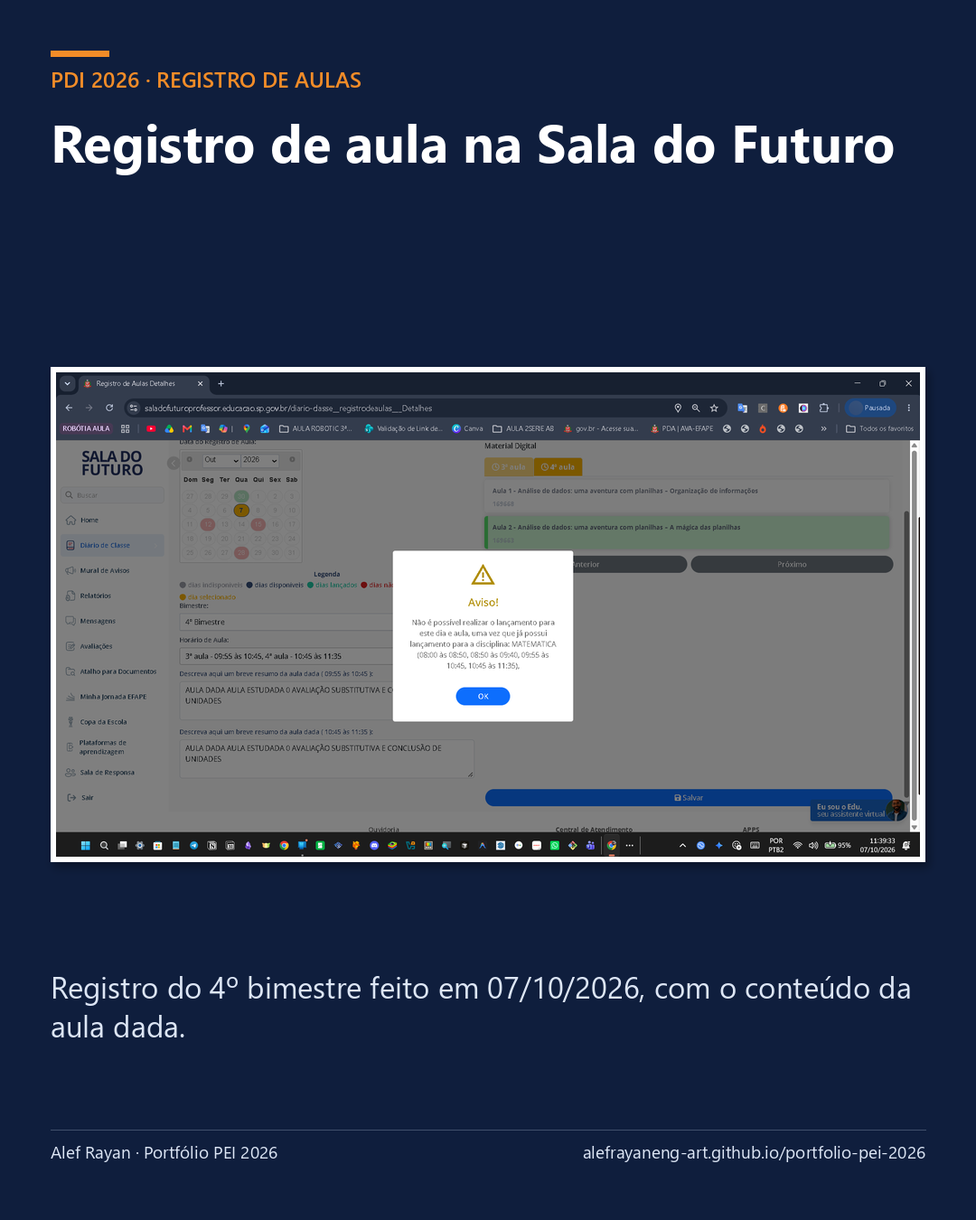
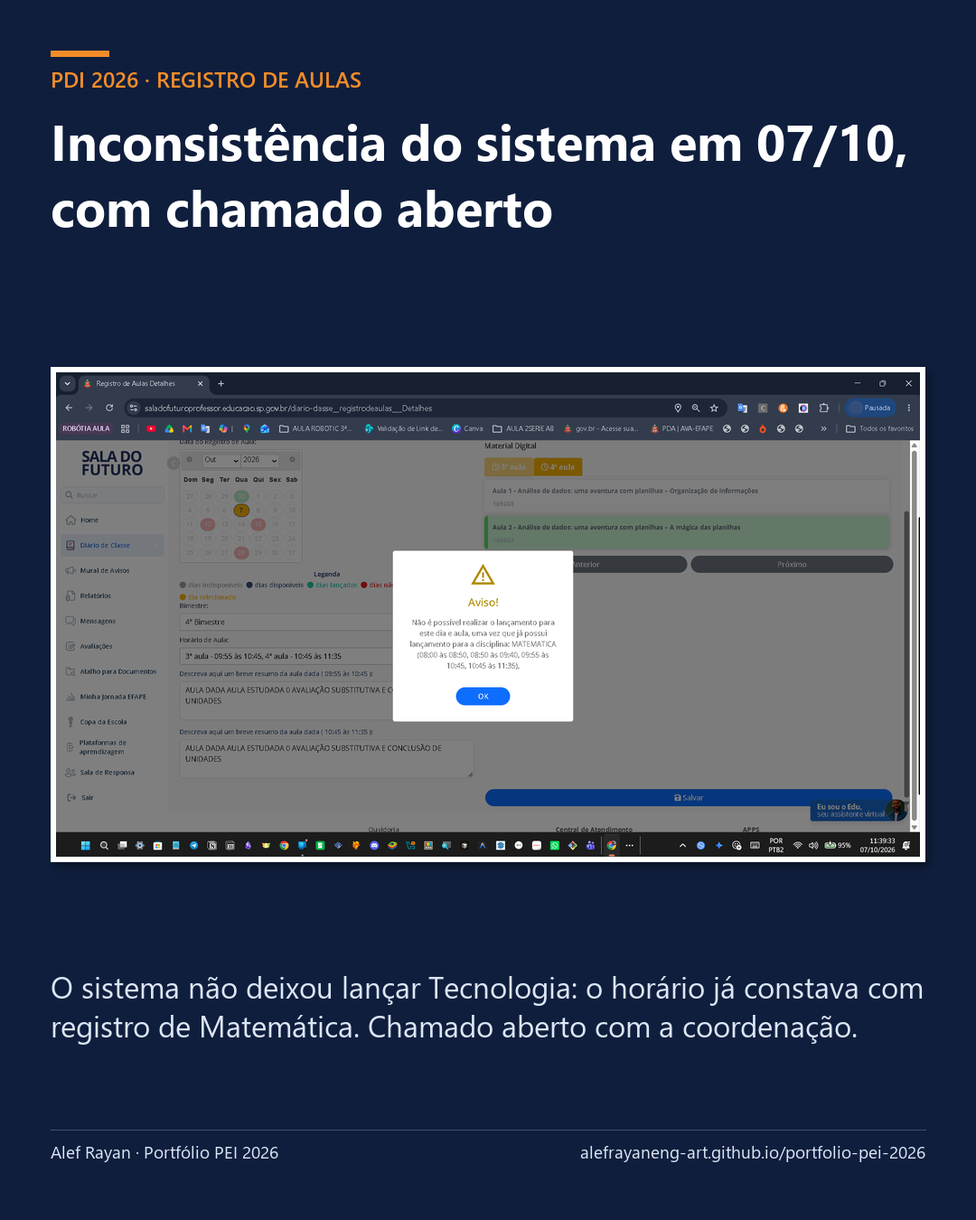
Corrige post de 07/10 (inconsistência do sistema) e troca o post de Gestão por dados automatizados para a busca ativa

diff --git a/indicadores.html b/indicadores.html
@@ -13,7 +13,7 @@
 <nav aria-label="Páginas"><ul><li><a href="index.html">Início</a></li><li><a href="indicadores.html" aria-current="page">Indicadores e deveres</a></li><li><a href="protagonismo-juvenil.html">Protagonismo juvenil</a></li><li><a href="pedagogia-da-presenca.html">Pedagogia da Presença</a></li><li><a href="educacao-interdimensional.html">Educação Interdimensional</a></li><li><a href="quatro-pilares.html">Quatro Pilares</a></li><li><a href="formacao-continuada.html">Formação continuada</a></li><li><a href="replicabilidade.html">Replicabilidade</a></li><li><a href="corresponsabilidade.html">Corresponsabilidade</a></li><li><a href="excelencia-em-gestao.html">Excelência em gestão</a></li><li><a href="praticas-pei.html">Práticas do PEI</a></li></ul></nav>
 </div></header>
 <main class="wrap">
-<h1>Evidências por indicador e por dever legal</h1><p class="lead">Cada afirmação traz a fonte entre parênteses. As evidências são as que já aparecem neste site; o que contém dado de estudante não foi publicado.</p><section class="def"><p class="def-t">Como ler esta página</p><p>Os indicadores do painel do professor e os deveres do docente do Programa Ensino Integral (PEI) estão ligados, um a um, aos cartões das outras páginas. Quando um registro vem de um período diferente do que a norma define, a página diz isso.</p></section><h2>Diário de Classe <span class="count">dever legal e prints</span></h2><div class="cards"><article class="card"><h3>Dever legal: frequência e conteúdo lançados diariamente</h3><p><strong>O que a norma diz:</strong> o professor deve lançar, diariamente, a frequência dos estudantes e registrar, diariamente, as informações sobre os conteúdos trabalhados nas aulas (Resolução SEDUC nº 32/2025, art. 6º, I e II). Para o indicador Diário de Classe, vale o registro completo, com a frequência do estudante e o conteúdo da aula (Comunicado COMOB/DMOB nº 40, de 27/07/2026, item 2). A orientação do portal para o perfil Professor é lançar até 5 dias corridos após a aula (Portal de Atendimento, SED-08284, desde 05/03/2025).</p></article><article class="card"><h3>Prints do Professor Presente e da Sala do Futuro</h3><p class="meta">agosto a novembro de 2026 · turmas visíveis nas capturas</p><p><strong>O que comprova:</strong> calendário de agosto em verde, a pendência de 04/09 vista às 10h32 e regularizada às 14h31, um registro de aula de 07/10 e o calendário de novembro em verde. Cada dia verde significa frequência e conteúdo registrados em todas as aulas do dia (legenda do calendário do sistema; Comunicado COMOB/DMOB nº 40, item 2).</p><p class="note">Os prints são de agosto a novembro de 2026, de prática posterior ao PDI de 14/08/2026. Não são a apuração do indicador, que tem período próprio na norma (Portaria Conjunta SUCOR-SUPED nº 01/2026, art. 9º).</p><div class="shots"><figure class="shot "><a class="zoom" href="#lb41" title="Clique para ampliar"><img src="assets/pdi/r1-agosto-verde.png" alt="Calendário do Professor Presente de agosto de 2026, com os dias de aula de 03 a 31/08 em verde" loading="lazy"></a><figcaption>Agosto</figcaption></figure><figure class="shot "><a class="zoom" href="#lb42" title="Clique para ampliar"><img src="assets/pdi/r2-04set-1032-amarelo.png" alt="Calendário de setembro de 2026 com 04/09 em amarelo às 10h32 e 01 a 03/09 em verde" loading="lazy"></a><figcaption>04/09, 10h32</figcaption></figure><figure class="shot "><a class="zoom" href="#lb43" title="Clique para ampliar"><img src="assets/pdi/r3-04set-1431-verde.png" alt="Calendário de setembro de 2026 com 04/09 em verde às 14h31" loading="lazy"></a><figcaption>04/09, 14h31</figcaption></figure><figure class="shot "><a class="zoom" href="#lb44" title="Clique para ampliar"><img src="assets/pdi/r6-registro-aula-07out.png" alt="Tela de Registro de Aulas da Sala do Futuro, 4º bimestre, 07/10/2026, com aviso do sistema sobre lançamento existente de Matemática" loading="lazy"></a><figcaption>Registro de aula, 07/10</figcaption></figure><figure class="shot "><a class="zoom" href="#lb45" title="Clique para ampliar"><img src="assets/pdi/r8-novembro-verde.png" alt="Calendário do Professor Presente de novembro de 2026, com os dias de 03 a 06, 09 a 13 e 16/11 em verde" loading="lazy"></a><figcaption>Novembro</figcaption></figure></div><p class="links"><a href="index.html#pdi">Ver a linha do tempo completa na página inicial</a></p><p class="reg">Capturas com CPF, nome e foto de perfil ocultados.</p></article></div><h2>Formação <span class="count">4 frentes</span></h2><p>O indicador Formação reúne o Planejamento de Aula 2026 (30%, semanas 1 a 18) e uma formação da lista da portaria, que inclui o Multiplica SP da 1ª edição de 2026 (Portaria Conjunta SUCOR-SUPED nº 01/2026, art. 10).</p><div class="cards"><article class="card"><h3>Multiplica SP, 1º semestre de 2026 (a formação que a norma nomeia)</h3><p class="meta">15/05/2026 · Tecnologia e Inovação, 6º ano A e B · turma 0072</p><p><strong>O que comprova:</strong> socialização “Palco dos Padrões” no Multiplica do 1º semestre. A norma nomeia essa edição, pautas 1 a 9, com a frequência e a socialização das aprendizagens como critérios (Portaria Conjunta SUCOR-SUPED nº 01/2026, art. 10, II, a). O Multiplica SP #Professores também é obrigatório no estágio probatório (Resolução SEDUC nº 115/2024, art. 11).</p><p class="links"><a href="formacao-continuada.html">Ver o cartão na página Formação continuada</a></p><p class="reg">Registro em texto; o painel tem fotos de estudantes e não foi publicado.</p></article><article class="card"><h3>Planejamento de Aula (30% do indicador)</h3><p class="meta">05/05/2026 · Matemática, 7º ano · AVA-EFAPE (PDA)</p><p><strong>O que comprova:</strong> plano de aula “Divisão de números racionais”, gerado no AVA-EFAPE. O Planejamento de Aula é apurado por semana, nas semanas 1 a 18 (Portaria Conjunta SUCOR-SUPED nº 01/2026, art. 10, I); um plano publicado não substitui essa apuração.</p><p class="links"><a href="formacao-continuada.html">Ver o plano e o PDF na página Formação continuada</a></p></article><article class="card"><h3>Multiplica 2026.2: “Atende plenamente” nos quatro critérios</h3><p class="meta">resultado visto em 09/11/2026 · Robótica, 3ª série A</p><p><strong>O que comprova:</strong> a rubrica de avaliação de documento marca “Resultado Final” em “Atende plenamente” em Contextualização e Identificação; Alinhamento Curricular e Intencionalidade; Conteúdos e Coerência da Narrativa; Resultados e Reflexão Crítica. A lista do art. 10 da portaria cita a 1ª edição; o 2º semestre entra como participação em programa de formação da Pasta (Resolução SEDUC nº 83/2025, art. 3º, II).</p><p class="links"><a href="formacao-continuada.html">Ver as capturas e o portfólio</a></p></article><article class="card"><h3>Curso de Ingressantes da EFAPE (obrigatório)</h3><p class="meta">outubro e novembro de 2026</p><p><strong>O que comprova:</strong> o curso é parte integrante e obrigatória do estágio probatório (Decreto nº 69.046/2024, art. 18). Módulo 4, atividade avaliativa: 10/10 (100%). Módulo 3, questões objetivas: 2/2 (100%). O curso segue em andamento, sem atestado de conclusão até 16/11/2026 (Resolução SEDUC nº 115/2024, art. 6º).</p><p class="links"><a href="formacao-continuada.html">Ver o cartão na página Formação continuada</a></p><p class="reg">Registro em texto; arquivo não publicado.</p></article></div><h2>Dimensões dos questionários <span class="count">6 de 11</span></h2><p>A Resolução SEDUC nº 83/2025 lista 11 dimensões para os questionários avaliativos (art. 2º, § 3º). Seis delas têm evidência direta neste site.</p><div class="cards"><article class="card"><h3>Dimensão 1: Domínio do Conhecimento e Conteúdo</h3><p class="meta">Definição da norma: “capacidade de dominar e contextualizar o conhecimento e conteúdo” (Resolução SEDUC nº 83/2025, art. 2º, § 3º)</p><p>Observação de aula pela gestão em 22/04/2026 (6º ano A), com devolutiva positiva que registra segurança ao explicar, e site público de revisão do SARESP para o 7º ano.</p><p class="links"><a href="pedagogia-da-presenca.html">Apoio presencial em sala de aula</a> · <a href="quatro-pilares.html">Site de revisão do SARESP</a></p></article><article class="card"><h3>Dimensão 2: Metodologia Dinâmica e Inovadora</h3><p class="meta">Definição da norma: “uso de métodos pedagógicos dinâmicos e inovadores” (Resolução SEDUC nº 83/2025, art. 2º, § 3º)</p><p>Eletiva de IA com bonecos 3D feitos a partir de desenhos dos estudantes, Robótica com prototipação em grupos, programação desplugada no Palco dos Padrões e trilha de 12 Kahoots.</p><p class="links"><a href="protagonismo-juvenil.html">Bonecos 3D</a> · <a href="quatro-pilares.html">Prototipação e Kahoots</a> · <a href="educacao-interdimensional.html">Palco dos Padrões</a></p></article><article class="card"><h3>Dimensão 7: Compromisso com a Aprendizagem</h3><p class="meta">Definição da norma: “dedicação ao processo de aprendizagem” (Resolução SEDUC nº 83/2025, art. 2º, § 3º)</p><p>Plano de recuperação e aprofundamento do 3º bimestre em Matemática (7º A), com Kahoot e Matific a cada semana; busca ativa de pendências na Alura; guias de aprendizagem do 4º bimestre; revisão para o SARESP.</p><p class="links"><a href="praticas-pei.html">Recuperação e guias</a> · <a href="corresponsabilidade.html">Busca ativa</a></p></article><article class="card"><h3>Dimensão 8: Qualidade das Aulas</h3><p class="meta">Definição da norma: “nível de qualidade das aulas ministradas” (Resolução SEDUC nº 83/2025, art. 2º, § 3º)</p><p>Observação de aula pela gestão com devolutiva positiva, plano de aula no AVA-EFAPE, material semanal da eletiva e portfólio do Multiplica 2026.2 com “Atende plenamente” nos quatro critérios.</p><p class="links"><a href="formacao-continuada.html">Formação continuada</a> · <a href="praticas-pei.html">Eletiva</a></p></article><article class="card"><h3>Dimensão 9: Apoio ao Desenvolvimento</h3><p class="meta">Definição da norma: “suporte ao desenvolvimento dos alunos” (Resolução SEDUC nº 83/2025, art. 2º, § 3º)</p><p>Tutoria de 16 estudantes em 4 grupos, com secretárias da frequência e articuladores; recuperação de aprendizagem; busca ativa; bonecos 3D.</p><p class="links"><a href="pedagogia-da-presenca.html">Tutoria</a> · <a href="praticas-pei.html">Recuperação</a></p></article><article class="card"><h3>Dimensão 11: Planejamento</h3><p class="meta">Definição da norma: “capacidade de planejar e organizar as atividades” (Resolução SEDUC nº 83/2025, art. 2º, § 3º)</p><p>Vinte planos e guias do 4º bimestre, painel do macrociclo do bimestre e plano de aula registrado no AVA-EFAPE.</p><p class="links"><a href="replicabilidade.html">Planos e guias</a> · <a href="excelencia-em-gestao.html">Macrociclo</a></p></article></div><h2>Apoio presencial em sala de aula</h2><div class="cards"><article class="card"><h3>Observação de aula e devolutiva da gestão</h3><p class="meta">22/04/2026 · Tecnologia e Inovação, 6º ano A</p><p><strong>O que a norma diz:</strong> o acompanhamento prevê o apoio presencial em sala de aula (Resolução SEDUC nº 83/2025, art. 6º, § 1º, 1, a). Para o professor ingressante, a gestão assiste à aula ao menos uma vez ao mês e registra devolutiva formativa (Resolução SEDUC nº 115/2024, art. 11, § 2º).</p><p><strong>O que comprova:</strong> o registro de 22/04/2026, com a observação de uma aula e a devolutiva da gestão, com pontos fortes e pontos de atenção.</p><p class="links"><a href="pedagogia-da-presenca.html">Ver o cartão na página Pedagogia da Presença</a></p><p class="reg">Registro em texto; arquivo não publicado, porque o formulário traz o nome da gestora.</p></article></div><h2>Deveres do docente PEI em RDE <span class="count">LC 1.374/2022, art. 47</span></h2><p>Os docentes do Programa Ensino Integral ficam submetidos ao Regime de Dedicação Exclusiva (RDE) (Lei Complementar nº 1.374/2022, art. 47). Cada dever abaixo aponta para os cartões que o documentam.</p><div class="cards"><article class="card"><h3>Tutoria</h3><p>Atuo como tutor de um grupo de 16 estudantes, organizado em quatro grupos com secretárias da frequência e articuladores, o que corresponde à atribuição de atuar em atividades de tutoria aos estudantes (Resolução SEDUC nº 61/2024, art. 2º, III; Lei Complementar nº 1.374/2022, art. 47, § 1º, 1).</p><p class="links"><a href="pedagogia-da-presenca.html">Tutoria 2026</a></p></article><article class="card"><h3>Eletiva e Parte Diversificada</h3><p>A eletiva “Meu Mundo com IA”, com ementa, sete semanas de material e lapbooks, a Robótica e as práticas experimentais compõem a Parte Diversificada da jornada do docente em dedicação exclusiva (Resolução SEDUC nº 159/2025, art. 10, § 1º, 2).</p><p class="links"><a href="praticas-pei.html">Eletiva e práticas experimentais</a> · <a href="educacao-interdimensional.html">Lapbooks</a></p></article><article class="card"><h3>Protagonismo juvenil</h3><p>Os bonecos 3D impressos a partir de desenhos dos próprios estudantes e a coavaliação na Robótica mostram o protagonismo juvenil em prática: a ideia é do estudante e a tecnologia é meio (Resolução SEDUC nº 61/2024, art. 2º, V).</p><p class="links"><a href="protagonismo-juvenil.html">Protagonismo juvenil</a></p></article><article class="card"><h3>Guias de Aprendizagem</h3><p>Os guias de aprendizagem do 4º bimestre organizam o estudo do estudante e levam o modelo pedagógico do Ensino Integral para a aula (Resolução SEDUC nº 61/2024, art. 4º, VIII, b).</p><p class="links"><a href="praticas-pei.html">Guias do 4º bimestre</a></p></article><article class="card"><h3>Recuperação de aprendizagem</h3><p>O plano de recuperação e aprofundamento do 3º bimestre de Matemática do 7º A, com Kahoot e Matific a cada semana, registra a recuperação prevista para os estudantes de menor rendimento (Lei de Diretrizes e Bases, art. 12, V; Resolução SEDUC nº 42/2024, arts. 1º a 9º).</p><p class="links"><a href="praticas-pei.html">Recuperação e aprofundamento</a></p></article><article class="card"><h3>Sistematizar e documentar práticas para replicar</h3><p>O guia ilustrado do desenho ao boneco 3D e os planos e guias do 4º bimestre foram escritos para que outro professor possa repetir a prática (Resolução SEDUC nº 61/2024, art. 2º, VI).</p><p class="links"><a href="replicabilidade.html">Replicabilidade</a></p></article><article class="card"><h3>Formações e orientações técnico-pedagógicas</h3><p>Participei do Multiplica SP #Professores nos dois semestres de 2026 e socializei a prática de Robótica em portfólio, formação obrigatória no estágio probatório (Resolução SEDUC nº 61/2024, art. 2º, IV; Resolução SEDUC nº 115/2024, art. 11; Portaria EFAPE nº 03/2026, art. 1º, parágrafo único).</p><p class="links"><a href="formacao-continuada.html">Formação continuada</a></p></article></div><h2>Este portfólio e o PDI</h2><div class="cards"><article class="card"><h3>O Padlet e este site como ação do PDI</h3><p class="meta">14/08/2026 em diante</p><p><strong>O que comprova:</strong> o PDI de 14/08/2026 previu a elaboração de um Padlet de evidências; o Padlet e este site são essa ação em andamento. A norma prevê o PDI como ferramenta central das atividades de aprimoramento das práticas pedagógicas (Resolução SEDUC nº 83/2025, art. 6º, § 1º, 3) e o acompanhamento com base em registros e evidências (art. 7º, § 1º, 1).</p><p class="links"><a href="index.html#pdi">Ver o registro do PDI na página inicial</a></p></article></div>
+<h1>Evidências por indicador e por dever legal</h1><p class="lead">Cada afirmação traz a fonte entre parênteses. As evidências são as que já aparecem neste site; o que contém dado de estudante não foi publicado.</p><section class="def"><p class="def-t">Como ler esta página</p><p>Os indicadores do painel do professor e os deveres do docente do Programa Ensino Integral (PEI) estão ligados, um a um, aos cartões das outras páginas. Quando um registro vem de um período diferente do que a norma define, a página diz isso.</p></section><h2>Diário de Classe <span class="count">dever legal e prints</span></h2><div class="cards"><article class="card"><h3>Dever legal: frequência e conteúdo lançados diariamente</h3><p><strong>O que a norma diz:</strong> o professor deve lançar, diariamente, a frequência dos estudantes e registrar, diariamente, as informações sobre os conteúdos trabalhados nas aulas (Resolução SEDUC nº 32/2025, art. 6º, I e II). Para o indicador Diário de Classe, vale o registro completo, com a frequência do estudante e o conteúdo da aula (Comunicado COMOB/DMOB nº 40, de 27/07/2026, item 2). A orientação do portal para o perfil Professor é lançar até 5 dias corridos após a aula (Portal de Atendimento, SED-08284, desde 05/03/2025).</p></article><article class="card"><h3>Prints do Professor Presente e da Sala do Futuro</h3><p class="meta">agosto a novembro de 2026 · turmas visíveis nas capturas</p><p><strong>O que comprova:</strong> calendário de agosto em verde, a pendência de 04/09 vista às 10h32 e regularizada às 14h31, o aviso do sistema que impediu o lançamento da aula de Tecnologia em 07/10 (chamado aberto com a coordenação) e o calendário de novembro em verde. Cada dia verde significa frequência e conteúdo registrados em todas as aulas do dia (legenda do calendário do sistema; Comunicado COMOB/DMOB nº 40, item 2).</p><p class="note">Os prints são de agosto a novembro de 2026, de prática posterior ao PDI de 14/08/2026. Não são a apuração do indicador, que tem período próprio na norma (Portaria Conjunta SUCOR-SUPED nº 01/2026, art. 9º).</p><div class="shots"><figure class="shot "><a class="zoom" href="#lb41" title="Clique para ampliar"><img src="assets/pdi/r1-agosto-verde.png" alt="Calendário do Professor Presente de agosto de 2026, com os dias de aula de 03 a 31/08 em verde" loading="lazy"></a><figcaption>Agosto</figcaption></figure><figure class="shot "><a class="zoom" href="#lb42" title="Clique para ampliar"><img src="assets/pdi/r2-04set-1032-amarelo.png" alt="Calendário de setembro de 2026 com 04/09 em amarelo às 10h32 e 01 a 03/09 em verde" loading="lazy"></a><figcaption>04/09, 10h32</figcaption></figure><figure class="shot "><a class="zoom" href="#lb43" title="Clique para ampliar"><img src="assets/pdi/r3-04set-1431-verde.png" alt="Calendário de setembro de 2026 com 04/09 em verde às 14h31" loading="lazy"></a><figcaption>04/09, 14h31</figcaption></figure><figure class="shot "><a class="zoom" href="#lb44" title="Clique para ampliar"><img src="assets/pdi/r6-registro-aula-07out.png" alt="Tela de Registro de Aulas da Sala do Futuro, 4º bimestre, 07/10/2026, com aviso do sistema sobre lançamento existente de Matemática" loading="lazy"></a><figcaption>Aviso do sistema, 07/10</figcaption></figure><figure class="shot "><a class="zoom" href="#lb45" title="Clique para ampliar"><img src="assets/pdi/r8-novembro-verde.png" alt="Calendário do Professor Presente de novembro de 2026, com os dias de 03 a 06, 09 a 13 e 16/11 em verde" loading="lazy"></a><figcaption>Novembro</figcaption></figure></div><p class="links"><a href="index.html#pdi">Ver a linha do tempo completa na página inicial</a></p><p class="reg">Capturas com CPF, nome e foto de perfil ocultados.</p></article></div><h2>Formação <span class="count">4 frentes</span></h2><p>O indicador Formação reúne o Planejamento de Aula 2026 (30%, semanas 1 a 18) e uma formação da lista da portaria, que inclui o Multiplica SP da 1ª edição de 2026 (Portaria Conjunta SUCOR-SUPED nº 01/2026, art. 10).</p><div class="cards"><article class="card"><h3>Multiplica SP, 1º semestre de 2026 (a formação que a norma nomeia)</h3><p class="meta">15/05/2026 · Tecnologia e Inovação, 6º ano A e B · turma 0072</p><p><strong>O que comprova:</strong> socialização “Palco dos Padrões” no Multiplica do 1º semestre. A norma nomeia essa edição, pautas 1 a 9, com a frequência e a socialização das aprendizagens como critérios (Portaria Conjunta SUCOR-SUPED nº 01/2026, art. 10, II, a). O Multiplica SP #Professores também é obrigatório no estágio probatório (Resolução SEDUC nº 115/2024, art. 11).</p><p class="links"><a href="formacao-continuada.html">Ver o cartão na página Formação continuada</a></p><p class="reg">Registro em texto; o painel tem fotos de estudantes e não foi publicado.</p></article><article class="card"><h3>Planejamento de Aula (30% do indicador)</h3><p class="meta">05/05/2026 · Matemática, 7º ano · AVA-EFAPE (PDA)</p><p><strong>O que comprova:</strong> plano de aula “Divisão de números racionais”, gerado no AVA-EFAPE. O Planejamento de Aula é apurado por semana, nas semanas 1 a 18 (Portaria Conjunta SUCOR-SUPED nº 01/2026, art. 10, I); um plano publicado não substitui essa apuração.</p><p class="links"><a href="formacao-continuada.html">Ver o plano e o PDF na página Formação continuada</a></p></article><article class="card"><h3>Multiplica 2026.2: “Atende plenamente” nos quatro critérios</h3><p class="meta">resultado visto em 09/11/2026 · Robótica, 3ª série A</p><p><strong>O que comprova:</strong> a rubrica de avaliação de documento marca “Resultado Final” em “Atende plenamente” em Contextualização e Identificação; Alinhamento Curricular e Intencionalidade; Conteúdos e Coerência da Narrativa; Resultados e Reflexão Crítica. A lista do art. 10 da portaria cita a 1ª edição; o 2º semestre entra como participação em programa de formação da Pasta (Resolução SEDUC nº 83/2025, art. 3º, II).</p><p class="links"><a href="formacao-continuada.html">Ver as capturas e o portfólio</a></p></article><article class="card"><h3>Curso de Ingressantes da EFAPE (obrigatório)</h3><p class="meta">outubro e novembro de 2026</p><p><strong>O que comprova:</strong> o curso é parte integrante e obrigatória do estágio probatório (Decreto nº 69.046/2024, art. 18). Módulo 4, atividade avaliativa: 10/10 (100%). Módulo 3, questões objetivas: 2/2 (100%). O curso segue em andamento, sem atestado de conclusão até 16/11/2026 (Resolução SEDUC nº 115/2024, art. 6º).</p><p class="links"><a href="formacao-continuada.html">Ver o cartão na página Formação continuada</a></p><p class="reg">Registro em texto; arquivo não publicado.</p></article></div><h2>Dimensões dos questionários <span class="count">6 de 11</span></h2><p>A Resolução SEDUC nº 83/2025 lista 11 dimensões para os questionários avaliativos (art. 2º, § 3º). Seis delas têm evidência direta neste site.</p><div class="cards"><article class="card"><h3>Dimensão 1: Domínio do Conhecimento e Conteúdo</h3><p class="meta">Definição da norma: “capacidade de dominar e contextualizar o conhecimento e conteúdo” (Resolução SEDUC nº 83/2025, art. 2º, § 3º)</p><p>Observação de aula pela gestão em 22/04/2026 (6º ano A), com devolutiva positiva que registra segurança ao explicar, e site público de revisão do SARESP para o 7º ano.</p><p class="links"><a href="pedagogia-da-presenca.html">Apoio presencial em sala de aula</a> · <a href="quatro-pilares.html">Site de revisão do SARESP</a></p></article><article class="card"><h3>Dimensão 2: Metodologia Dinâmica e Inovadora</h3><p class="meta">Definição da norma: “uso de métodos pedagógicos dinâmicos e inovadores” (Resolução SEDUC nº 83/2025, art. 2º, § 3º)</p><p>Eletiva de IA com bonecos 3D feitos a partir de desenhos dos estudantes, Robótica com prototipação em grupos, programação desplugada no Palco dos Padrões e trilha de 12 Kahoots.</p><p class="links"><a href="protagonismo-juvenil.html">Bonecos 3D</a> · <a href="quatro-pilares.html">Prototipação e Kahoots</a> · <a href="educacao-interdimensional.html">Palco dos Padrões</a></p></article><article class="card"><h3>Dimensão 7: Compromisso com a Aprendizagem</h3><p class="meta">Definição da norma: “dedicação ao processo de aprendizagem” (Resolução SEDUC nº 83/2025, art. 2º, § 3º)</p><p>Plano de recuperação e aprofundamento do 3º bimestre em Matemática (7º A), com Kahoot e Matific a cada semana; busca ativa de pendências na Alura; guias de aprendizagem do 4º bimestre; revisão para o SARESP.</p><p class="links"><a href="praticas-pei.html">Recuperação e guias</a> · <a href="corresponsabilidade.html">Busca ativa</a></p></article><article class="card"><h3>Dimensão 8: Qualidade das Aulas</h3><p class="meta">Definição da norma: “nível de qualidade das aulas ministradas” (Resolução SEDUC nº 83/2025, art. 2º, § 3º)</p><p>Observação de aula pela gestão com devolutiva positiva, plano de aula no AVA-EFAPE, material semanal da eletiva e portfólio do Multiplica 2026.2 com “Atende plenamente” nos quatro critérios.</p><p class="links"><a href="formacao-continuada.html">Formação continuada</a> · <a href="praticas-pei.html">Eletiva</a></p></article><article class="card"><h3>Dimensão 9: Apoio ao Desenvolvimento</h3><p class="meta">Definição da norma: “suporte ao desenvolvimento dos alunos” (Resolução SEDUC nº 83/2025, art. 2º, § 3º)</p><p>Tutoria de 16 estudantes em 4 grupos, com secretárias da frequência e articuladores; recuperação de aprendizagem; busca ativa; bonecos 3D.</p><p class="links"><a href="pedagogia-da-presenca.html">Tutoria</a> · <a href="praticas-pei.html">Recuperação</a></p></article><article class="card"><h3>Dimensão 11: Planejamento</h3><p class="meta">Definição da norma: “capacidade de planejar e organizar as atividades” (Resolução SEDUC nº 83/2025, art. 2º, § 3º)</p><p>Vinte planos e guias do 4º bimestre, painel do macrociclo do bimestre e plano de aula registrado no AVA-EFAPE.</p><p class="links"><a href="replicabilidade.html">Planos e guias</a> · <a href="excelencia-em-gestao.html">Macrociclo</a></p></article></div><h2>Apoio presencial em sala de aula</h2><div class="cards"><article class="card"><h3>Observação de aula e devolutiva da gestão</h3><p class="meta">22/04/2026 · Tecnologia e Inovação, 6º ano A</p><p><strong>O que a norma diz:</strong> o acompanhamento prevê o apoio presencial em sala de aula (Resolução SEDUC nº 83/2025, art. 6º, § 1º, 1, a). Para o professor ingressante, a gestão assiste à aula ao menos uma vez ao mês e registra devolutiva formativa (Resolução SEDUC nº 115/2024, art. 11, § 2º).</p><p><strong>O que comprova:</strong> o registro de 22/04/2026, com a observação de uma aula e a devolutiva da gestão, com pontos fortes e pontos de atenção.</p><p class="links"><a href="pedagogia-da-presenca.html">Ver o cartão na página Pedagogia da Presença</a></p><p class="reg">Registro em texto; arquivo não publicado, porque o formulário traz o nome da gestora.</p></article></div><h2>Deveres do docente PEI em RDE <span class="count">LC 1.374/2022, art. 47</span></h2><p>Os docentes do Programa Ensino Integral ficam submetidos ao Regime de Dedicação Exclusiva (RDE) (Lei Complementar nº 1.374/2022, art. 47). Cada dever abaixo aponta para os cartões que o documentam.</p><div class="cards"><article class="card"><h3>Tutoria</h3><p>Atuo como tutor de um grupo de 16 estudantes, organizado em quatro grupos com secretárias da frequência e articuladores, o que corresponde à atribuição de atuar em atividades de tutoria aos estudantes (Resolução SEDUC nº 61/2024, art. 2º, III; Lei Complementar nº 1.374/2022, art. 47, § 1º, 1).</p><p class="links"><a href="pedagogia-da-presenca.html">Tutoria 2026</a></p></article><article class="card"><h3>Eletiva e Parte Diversificada</h3><p>A eletiva “Meu Mundo com IA”, com ementa, sete semanas de material e lapbooks, a Robótica e as práticas experimentais compõem a Parte Diversificada da jornada do docente em dedicação exclusiva (Resolução SEDUC nº 159/2025, art. 10, § 1º, 2).</p><p class="links"><a href="praticas-pei.html">Eletiva e práticas experimentais</a> · <a href="educacao-interdimensional.html">Lapbooks</a></p></article><article class="card"><h3>Protagonismo juvenil</h3><p>Os bonecos 3D impressos a partir de desenhos dos próprios estudantes e a coavaliação na Robótica mostram o protagonismo juvenil em prática: a ideia é do estudante e a tecnologia é meio (Resolução SEDUC nº 61/2024, art. 2º, V).</p><p class="links"><a href="protagonismo-juvenil.html">Protagonismo juvenil</a></p></article><article class="card"><h3>Guias de Aprendizagem</h3><p>Os guias de aprendizagem do 4º bimestre organizam o estudo do estudante e levam o modelo pedagógico do Ensino Integral para a aula (Resolução SEDUC nº 61/2024, art. 4º, VIII, b).</p><p class="links"><a href="praticas-pei.html">Guias do 4º bimestre</a></p></article><article class="card"><h3>Recuperação de aprendizagem</h3><p>O plano de recuperação e aprofundamento do 3º bimestre de Matemática do 7º A, com Kahoot e Matific a cada semana, registra a recuperação prevista para os estudantes de menor rendimento (Lei de Diretrizes e Bases, art. 12, V; Resolução SEDUC nº 42/2024, arts. 1º a 9º).</p><p class="links"><a href="praticas-pei.html">Recuperação e aprofundamento</a></p></article><article class="card"><h3>Sistematizar e documentar práticas para replicar</h3><p>O guia ilustrado do desenho ao boneco 3D e os planos e guias do 4º bimestre foram escritos para que outro professor possa repetir a prática (Resolução SEDUC nº 61/2024, art. 2º, VI).</p><p class="links"><a href="replicabilidade.html">Replicabilidade</a></p></article><article class="card"><h3>Formações e orientações técnico-pedagógicas</h3><p>Participei do Multiplica SP #Professores nos dois semestres de 2026 e socializei a prática de Robótica em portfólio, formação obrigatória no estágio probatório (Resolução SEDUC nº 61/2024, art. 2º, IV; Resolução SEDUC nº 115/2024, art. 11; Portaria EFAPE nº 03/2026, art. 1º, parágrafo único).</p><p class="links"><a href="formacao-continuada.html">Formação continuada</a></p></article></div><h2>Este portfólio e o PDI</h2><div class="cards"><article class="card"><h3>O Padlet e este site como ação do PDI</h3><p class="meta">14/08/2026 em diante</p><p><strong>O que comprova:</strong> o PDI de 14/08/2026 previu a elaboração de um Padlet de evidências; o Padlet e este site são essa ação em andamento. A norma prevê o PDI como ferramenta central das atividades de aprimoramento das práticas pedagógicas (Resolução SEDUC nº 83/2025, art. 6º, § 1º, 3) e o acompanhamento com base em registros e evidências (art. 7º, § 1º, 1).</p><p class="links"><a href="index.html#pdi">Ver o registro do PDI na página inicial</a></p></article></div>
 </main>
 
 <footer><div class="wrap">

diff --git a/index.html b/index.html
@@ -18,7 +18,7 @@
 <p>Este site reúne registros do trabalho de 2026, organizados pelos princípios, premissas e práticas do PEI. Cada página começa pela definição e traz cartões com data, turma e o que o arquivo comprova. O texto descreve só o que os arquivos mostram.</p></section>
 <section class="destaque" id="pdi"><h2>PDI 2026: registro do Diário de Classe e acompanhamento no Professor Presente</h2>
 <p>O PDI de 14/08/2026 priorizou o indicador Diário de Classe e previu um Padlet de evidências. Abaixo, em ordem de data, as capturas do Professor Presente (SED) e da Sala do Futuro, com CPF, nome e foto de perfil ocultados. Verde significa frequência e conteúdo registrados em todas as aulas do dia. Amarelo significa que faltou registro em alguma aula do dia, segundo a legenda do sistema.</p>
-<ol class="timeline"><li class="tl"><div class="tl-when">04/09/2026, 10:32</div><div class="tl-body"><h3>Agosto de 2026</h3><p>Calendário do Professor Presente: os dias de aula de 03 a 31/08 aparecem em verde: frequência e conteúdo registrados em todas as aulas do dia (legenda do sistema: “presença em todas as aulas do professor no dia”).</p><figure class="shot "><a class="zoom" href="#lb23" title="Clique para ampliar"><img src="assets/pdi/r1-agosto-verde.png" alt="Calendário do Professor Presente de agosto de 2026, com os dias de aula de 03 a 31/08 em verde" loading="lazy"></a></figure></div></li><li class="tl"><div class="tl-when">04/09/2026, 10:32</div><div class="tl-body"><h3>04/09: dia em amarelo</h3><p>04/09 aparece em amarelo (“falta aula”: falta registro de frequência e conteúdo em alguma aula do dia). Os dias 01 a 03/09 estão em verde.</p><figure class="shot "><a class="zoom" href="#lb24" title="Clique para ampliar"><img src="assets/pdi/r2-04set-1032-amarelo.png" alt="Calendário de setembro de 2026 com 04/09 em amarelo às 10h32 e 01 a 03/09 em verde" loading="lazy"></a></figure></div></li><li class="tl"><div class="tl-when">04/09/2026, 14:31</div><div class="tl-body"><h3>04/09: o mesmo dia em verde</h3><p>Quatro horas depois, 04/09 aparece em verde. O professor acompanha o painel e regulariza o registro no mesmo dia.</p><figure class="shot "><a class="zoom" href="#lb25" title="Clique para ampliar"><img src="assets/pdi/r3-04set-1431-verde.png" alt="Calendário de setembro de 2026 com 04/09 em verde às 14h31" loading="lazy"></a></figure></div></li><li class="tl"><div class="tl-when">09/09/2026, 15:07</div><div class="tl-body"><h3>Setembro de 2026</h3><p>Calendário com 01 a 04/09 e 08 a 09/09 em verde: frequência e conteúdo registrados em todas as aulas desses dias.</p><figure class="shot "><a class="zoom" href="#lb26" title="Clique para ampliar"><img src="assets/pdi/r4-setembro.png" alt="Calendário do Professor Presente com 01 a 04/09 e 08 e 09/09 em verde" loading="lazy"></a></figure></div></li><li class="tl"><div class="tl-when">07/10/2026, 11:39</div><div class="tl-body"><h3>Registro de aula em 07/10</h3><p>Tela de Registro de Aulas (Sala do Futuro), 4º bimestre. O sistema avisa que já existe lançamento da disciplina Matemática para o dia e os horários consultados, e o campo de resumo da aula está preenchido.</p><figure class="shot "><a class="zoom" href="#lb27" title="Clique para ampliar"><img src="assets/pdi/r6-registro-aula-07out.png" alt="Tela de Registro de Aulas da Sala do Futuro, 4º bimestre, 07/10/2026, com aviso do sistema sobre lançamento existente de Matemática" loading="lazy"></a></figure></div></li><li class="tl"><div class="tl-when">09/10/2026, 10:36</div><div class="tl-body"><h3>Detalhe do dia 07/10</h3><p>Quadro do dia 07/10 por turma, disciplina e horário. Com frequência e conteúdo registrados (verde): 7º A Matemática (08:00 a 09:40) e 6º A Tecnologia (12:40 a 14:20). As duas aulas do 6º B Tecnologia (09:55 a 11:35) aparecem sem registro na data desta captura.</p><figure class="shot "><a class="zoom" href="#lb28" title="Clique para ampliar"><img src="assets/pdi/r7-detalhe-dia-07out.png" alt="Quadro Registro de Presença em Aula do dia 07/10/2026, com aulas do 7º A, 6º A e 6º B por horário" loading="lazy"></a></figure></div></li><li class="tl"><div class="tl-when">16/11/2026, 14:39</div><div class="tl-body"><h3>Novembro de 2026</h3><p>Calendário de novembro: 03 a 06, 09 a 13 e 16/11 em verde, com frequência e conteúdo registrados em todas as aulas desses dias.</p><figure class="shot "><a class="zoom" href="#lb29" title="Clique para ampliar"><img src="assets/pdi/r8-novembro-verde.png" alt="Calendário do Professor Presente de novembro de 2026, com os dias de 03 a 06, 09 a 13 e 16/11 em verde" loading="lazy"></a></figure></div></li></ol>
+<ol class="timeline"><li class="tl"><div class="tl-when">04/09/2026, 10:32</div><div class="tl-body"><h3>Agosto de 2026</h3><p>Calendário do Professor Presente: os dias de aula de 03 a 31/08 aparecem em verde: frequência e conteúdo registrados em todas as aulas do dia (legenda do sistema: “presença em todas as aulas do professor no dia”).</p><figure class="shot "><a class="zoom" href="#lb23" title="Clique para ampliar"><img src="assets/pdi/r1-agosto-verde.png" alt="Calendário do Professor Presente de agosto de 2026, com os dias de aula de 03 a 31/08 em verde" loading="lazy"></a></figure></div></li><li class="tl"><div class="tl-when">04/09/2026, 10:32</div><div class="tl-body"><h3>04/09: dia em amarelo</h3><p>04/09 aparece em amarelo (“falta aula”: falta registro de frequência e conteúdo em alguma aula do dia). Os dias 01 a 03/09 estão em verde.</p><figure class="shot "><a class="zoom" href="#lb24" title="Clique para ampliar"><img src="assets/pdi/r2-04set-1032-amarelo.png" alt="Calendário de setembro de 2026 com 04/09 em amarelo às 10h32 e 01 a 03/09 em verde" loading="lazy"></a></figure></div></li><li class="tl"><div class="tl-when">04/09/2026, 14:31</div><div class="tl-body"><h3>04/09: o mesmo dia em verde</h3><p>Quatro horas depois, 04/09 aparece em verde. O professor acompanha o painel e regulariza o registro no mesmo dia.</p><figure class="shot "><a class="zoom" href="#lb25" title="Clique para ampliar"><img src="assets/pdi/r3-04set-1431-verde.png" alt="Calendário de setembro de 2026 com 04/09 em verde às 14h31" loading="lazy"></a></figure></div></li><li class="tl"><div class="tl-when">09/09/2026, 15:07</div><div class="tl-body"><h3>Setembro de 2026</h3><p>Calendário com 01 a 04/09 e 08 a 09/09 em verde: frequência e conteúdo registrados em todas as aulas desses dias.</p><figure class="shot "><a class="zoom" href="#lb26" title="Clique para ampliar"><img src="assets/pdi/r4-setembro.png" alt="Calendário do Professor Presente com 01 a 04/09 e 08 e 09/09 em verde" loading="lazy"></a></figure></div></li><li class="tl"><div class="tl-when">07/10/2026, 11:39</div><div class="tl-body"><h3>07/10: o sistema impediu o lançamento da aula de Tecnologia</h3><p>Tela de Registro de Aulas (Sala do Futuro), 4º bimestre. O sistema avisa que já existe lançamento de Matemática no horário em que se tentava lançar a aula de Tecnologia. O horário de cada professor é fixo e não há como lançar em horário de outro, então a aula não pôde ser concluída naquele momento. A captura registra a inconsistência; com a coordenação, foi aberto um chamado, que resguarda o registro.</p><figure class="shot "><a class="zoom" href="#lb27" title="Clique para ampliar"><img src="assets/pdi/r6-registro-aula-07out.png" alt="Tela de Registro de Aulas da Sala do Futuro, 4º bimestre, 07/10/2026, com aviso do sistema sobre lançamento existente de Matemática no horário de Tecnologia" loading="lazy"></a></figure></div></li><li class="tl"><div class="tl-when">09/10/2026, 10:36</div><div class="tl-body"><h3>Detalhe do dia 07/10</h3><p>Quadro do dia 07/10 por turma, disciplina e horário. Com frequência e conteúdo registrados (verde): 7º A Matemática (08:00 a 09:40) e 6º A Tecnologia (12:40 a 14:20). As duas aulas do 6º B Tecnologia (09:55 a 11:35) aparecem sem registro na data desta captura, por causa do impedimento do sistema descrito no item de 07/10.</p><figure class="shot "><a class="zoom" href="#lb28" title="Clique para ampliar"><img src="assets/pdi/r7-detalhe-dia-07out.png" alt="Quadro Registro de Presença em Aula do dia 07/10/2026, com aulas do 7º A, 6º A e 6º B por horário" loading="lazy"></a></figure></div></li><li class="tl"><div class="tl-when">16/11/2026, 14:39</div><div class="tl-body"><h3>Novembro de 2026</h3><p>Calendário de novembro: 03 a 06, 09 a 13 e 16/11 em verde, com frequência e conteúdo registrados em todas as aulas desses dias.</p><figure class="shot "><a class="zoom" href="#lb29" title="Clique para ampliar"><img src="assets/pdi/r8-novembro-verde.png" alt="Calendário do Professor Presente de novembro de 2026, com os dias de 03 a 06, 09 a 13 e 16/11 em verde" loading="lazy"></a></figure></div></li></ol>
 <div class="aviso"><p><strong>O que um dia verde comprova.</strong> Para a SEDUC, só vale o registro completo: a frequência dos estudantes e o conteúdo da aula (Comunicado COMOB/DMOB nº 40, de 27/07/2026, item 2). A presença do professor é computada a partir desses lançamentos na Sala do Futuro Professor (Portal de Atendimento, SED-08024). A orientação do portal para o perfil Professor é lançar até 5 dias corridos após a aula (SED-08284, desde 05/03/2025), e a Resolução SEDUC nº 32/2025, art. 6º, I e II, exige o lançamento diário da frequência e do conteúdo.</p><p>Cada dia verde significa que todas as aulas daquele dia, em todas as turmas, tiveram frequência e conteúdo registrados, conforme a legenda do calendário do sistema (“presença em todas as aulas do professor no dia”).</p><p><strong>Alcance dos prints.</strong> As capturas são de agosto a novembro de 2026, ou seja, de prática posterior ao PDI de 14/08/2026. São registros pontuais: mostram o dia ou o mês visível em cada imagem e não são a apuração do indicador, que tem período próprio na norma (Portaria Conjunta SUCOR-SUPED nº 01/2026, art. 9º).</p></div></section>
 <section class="destaque" id="destaques"><h2>Outros destaques</h2>
 <article class="card"><h3>Multiplica 2026.1: socialização “Palco dos Padrões” (Tecnologia e Inovação, 1º semestre)</h3>

diff --git a/excelencia-em-gestao.html b/excelencia-em-gestao.html
@@ -14,7 +14,7 @@
 </div></header>
 <main class="wrap">
 <h1>Excelência em Gestão</h1><p class="lead">Planejamento, acompanhamento de indicadores e organização do bimestre.</p><section class="def"><p class="def-t">Definição, em uma linha</p><p>A gestão direciona suas ações para as metas do Plano de Ação e acompanha os resultados para melhorar o trabalho da equipe.</p><p class="src">Fonte: <a href="https://midiasstoragesec.blob.core.windows.net/001/2025/03/procedimento-passo-a-passo_valores-princpios-e-premissas.pdf" target="_blank" rel="noopener">SEDUC-SP, Procedimento Passo a Passo: Valores, Princípios e Premissas (2023)</a>. Síntese das definições do documento; conferir a redação antes de citar como transcrição.</p></section><h2>Evidências <span class="count">3</span></h2><div class="cards"><article class="card"><h3>Registro do Diário de Classe e acompanhamento no Professor Presente (PDI 2026)</h3><p class="meta">agosto a novembro de 2026 · Turmas visíveis nas capturas</p><p><strong>O que comprova:</strong> Capturas do Professor Presente e da Sala do Futuro mostram o acompanhamento do indicador Diário de Classe: agosto em verde, a regularização de 04/09 no mesmo dia e novembro em verde. As imagens e o que cada uma mostra estão na página inicial.</p><p class="links"><a href="index.html#pdi">Ver a linha do tempo na página inicial</a></p><p class="reg">Arquivos publicados na página inicial.</p></article><article class="card"><h3>Painel mestre do macrociclo do bimestre (modelo de planejamento)</h3><p class="meta">2º semestre de 2026 · Todas as turmas</p><p><strong>O que comprova:</strong> Painel que organiza o bimestre em semanas, com disciplinas e turmas, marcos do PEI, avaliações, projetos, riscos, perguntas de revisão semanal, blocos protegidos e fechamento do bimestre.</p><p class="note">O modelo está em branco. As checklists por função (21/09/2026) fazem parte do mesmo conjunto e não foram publicadas, porque citam estudantes.</p><div class="shots"><figure class="shot "><a class="zoom" href="#lb20" title="Clique para ampliar"><img src="assets/img/painel-mestre-macrociclo.png" alt="Painel mestre do macrociclo: grade de semanas por disciplina e turma, marcos, avaliações, projetos, riscos e fechamento do bimestre" loading="lazy"></a><figcaption>Painel mestre (modelo em branco)</figcaption></figure></div><p class="reg">Arquivo publicado: painel (imagem).</p></article><article class="card"><h3>Guias de Aprendizagem do 4º bimestre, com cronograma até 18/12/2026</h3><p class="meta">05/10 a 18/12/2026 · Matemática 7º A, Robótica 3ª A, Tecnologia 6º A</p><p><strong>O que comprova:</strong> Cada guia organiza o bimestre com justificativa, aprendizagens essenciais, etapas, avaliação e preparação para o Provão Paulista Seriado. Os três guias estão na página Práticas do PEI.</p><p class="links"><a href="praticas-pei.html#guias">Ver os guias</a></p><p class="reg">Arquivos publicados na página Práticas do PEI.</p></article></div>
-<h2>Novos registros de 17/11/2026 <span class="count">1</span></h2><div class="cards"><article class="card"><h3>Google Sala de Aula: 20 turmas organizadas em 2026</h3><p class="meta">17/11/2026 · todas as turmas</p><p><strong>O que comprova:</strong> O Google Sala de Aula tem 20 turmas ativas em 2026: 6º ao 9º ano, 1ª a 3ª série, Eletiva, Tutoria e Liga dos Robôs. Elas organizam a distribuição dos materiais pelas pastas do Drive. As turmas conferidas não têm atividades atribuídas; o registro mostra a organização, não a execução.</p><div class="shots"><figure class="shot "><img src="assets/img/classroom-turmas-2026.jpg" alt="Captura do Google Sala de Aula com a lista lateral de turmas de 2026" loading="lazy"><figcaption>Captura de tela</figcaption></figure></div><p class="reg">Arquivo publicado: uma captura de tela; a barra lateral mostra parte das turmas.</p></article></div>
+<h2>Novos registros de 17/11/2026 <span class="count">1</span></h2><div class="cards"><article class="card"><h3>Dados automatizados para a busca ativa dos alunos</h3><p class="meta">outubro a novembro de 2026 · Tecnologia, 6º ao 9º ano</p><p><strong>O que comprova:</strong> Os dados de atividades, unidades e avaliações dos alunos são extraídos da plataforma Alura (e, em outras turmas, do Matific e do Tarefas SP) e consolidados por scripts em Python criados com apoio de inteligência artificial, em planilhas e PDFs por turma e por unidade. A atualização é simples, embora não instantânea: baixam-se os dados de novo e as listas são geradas outra vez. Em outubro de 2026, a lista de alunos que ainda precisavam da avaliação substitutiva do 3º bimestre reuniu 116 alunos de 8 turmas, e orientou a busca ativa feita com a coordenação nas semanas de avaliação da Alura.</p><p class="reg">Registro em texto. As listas e planilhas têm nomes de estudantes e não foram publicadas.</p></article></div>
 </main>
 <footer><div class="wrap">
 <p>Material de trabalho de Alef Rayan, professor do Programa Ensino Integral (PEI), Jundiaí/SP, 2026. Os registros não trazem dados de estudantes: capturas de sistema têm CPF, nome e foto de perfil ocultados; instrumentos aparecem em branco; o que contém dados de alunos não foi publicado.</p>
